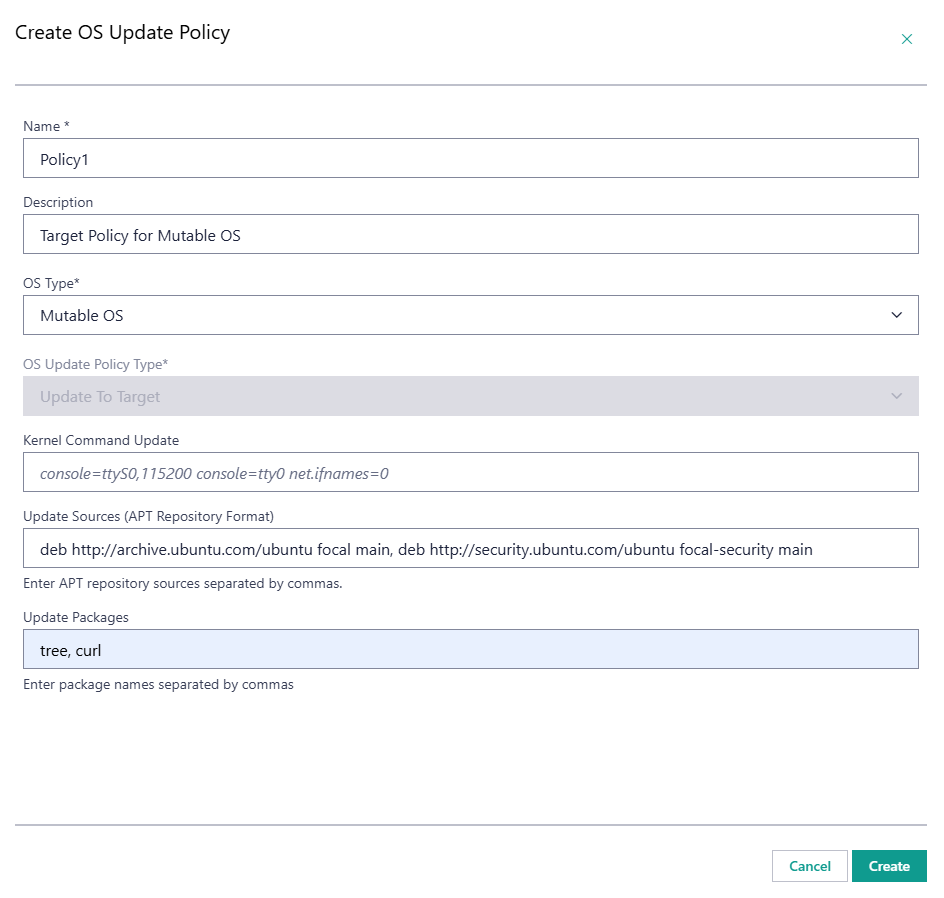
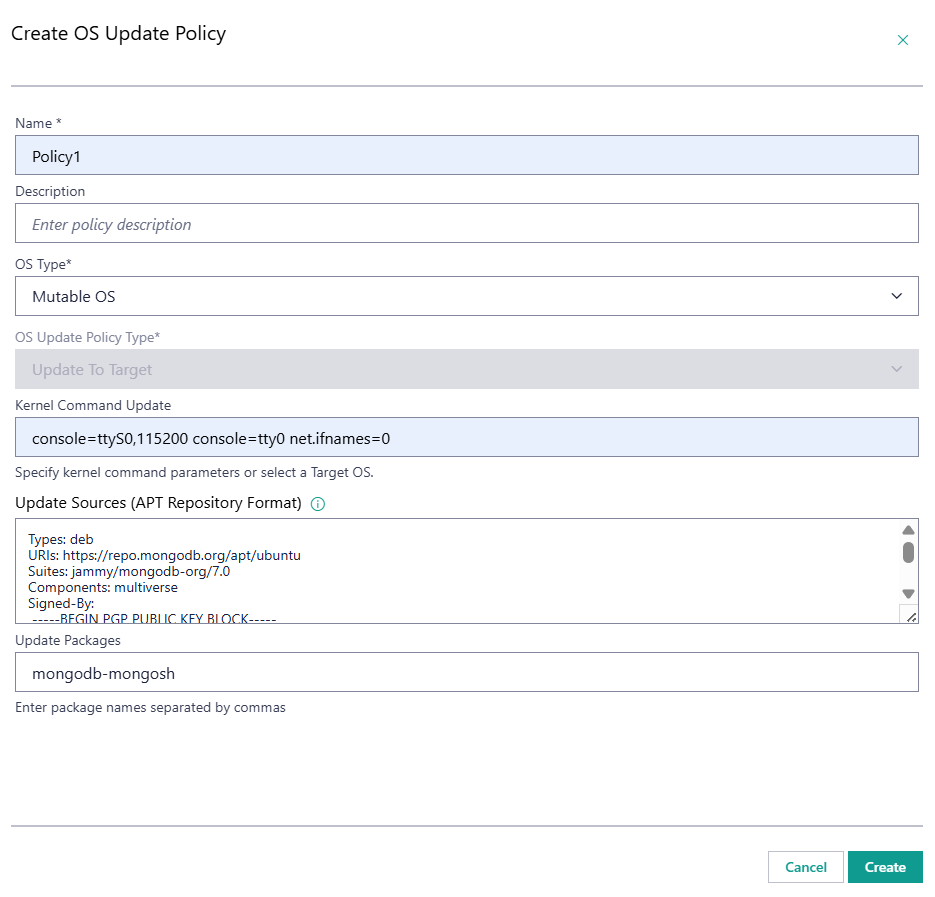
Fix documentation related to updates

diff --git a/docs/user_guide/advanced_functionality/apply_new_os_update_policy.rst b/docs/user_guide/advanced_functionality/apply_new_os_update_policy.rst
@@ -160,8 +160,8 @@ _________
 
 Mutable OS - OS update, no kernel command update and no new packages installation.
 
-.. figure:: images/os-update-policy_mutable_only_os.png
-        :alt: OS Update Policy - OS update example per mutable OS - no kernel command update and no new packages
+.. note::
+        No OS Update Policy is needed. 
 
 Example 2
 _________

diff --git a/docs/user_guide/advanced_functionality/install_new_packages.rst b/docs/user_guide/advanced_functionality/install_new_packages.rst
@@ -63,7 +63,7 @@ you must provide a new APT source using the DEB822 Source Format.
[1 lines of base64/hex data omitted]
      MFw3quqJhQMRsA==
      =gbRM
-     -----END PGP PUBLIC KEY BLOCK---
+     -----END PGP PUBLIC KEY BLOCK----
 
 Create OS Update Policy
 ------------------------